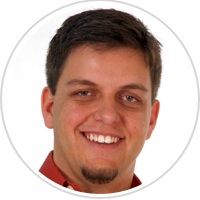
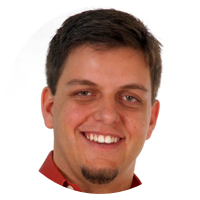
removes border from image and adds as css

diff --git a/blog/css/blog.css b/blog/css/blog.css
@@ -54,7 +54,7 @@
     text-decoration: none;
 }
 
-/* Each icon is created by inserting the corret character into the 
+/* Each icon is created by inserting the corret character into the
    content of the :before pseudo element. Like a boss. */
 .icon-ghost:before {
     content: "\e000";
@@ -275,8 +275,8 @@ kbd {
     font-weight: bold;
     background: #f4f4f4;
     border-radius: 4px;
-    box-shadow: 
-        0 1px 0 rgba(0, 0, 0, 0.2), 
+    box-shadow:
+        0 1px 0 rgba(0, 0, 0, 0.2),
         0 1px 0 0 #fff inset;
 }
 
@@ -376,6 +376,8 @@ table.plain {
     width: auto;
     margin: 0 auto;
     line-height: 0;
+    border-radius: 50%;
+    border: 2px solid #f4f4f4;
 }
 
 #back {
@@ -780,9 +782,9 @@ table.plain {
     }
 
     #site-head {
-        -webkit-box-sizing: border-box; 
+        -webkit-box-sizing: border-box;
         -moz-box-sizing: border-box;
-        box-sizing: border-box; 
+        box-sizing: border-box;
         height: auto;
         min-height: 240px;
         padding: 15% 0;
@@ -841,7 +843,7 @@ table.plain {
         max-height: 80px;
     }
 
-    .inner, 
+    .inner,
     .pagination {
         width: auto;
         margin-left: 16px;
